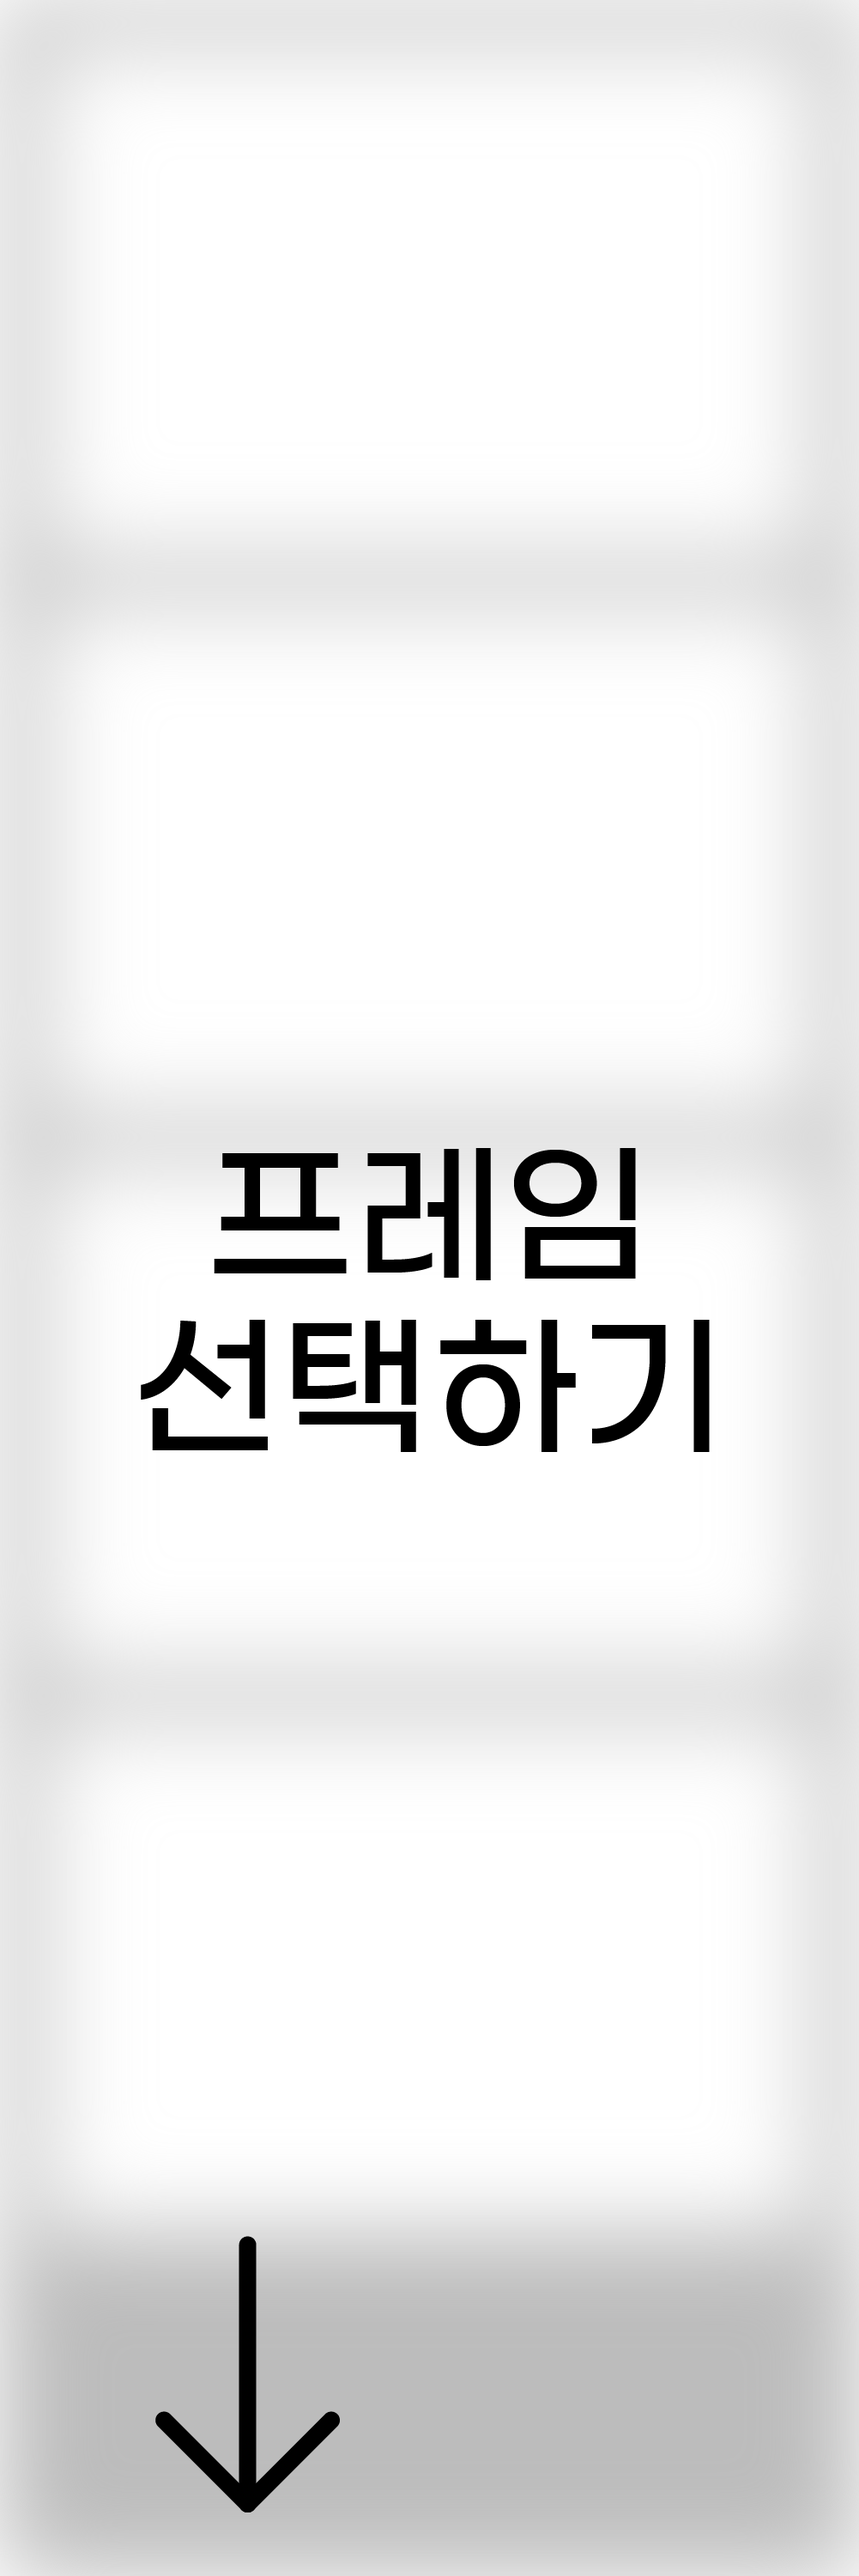
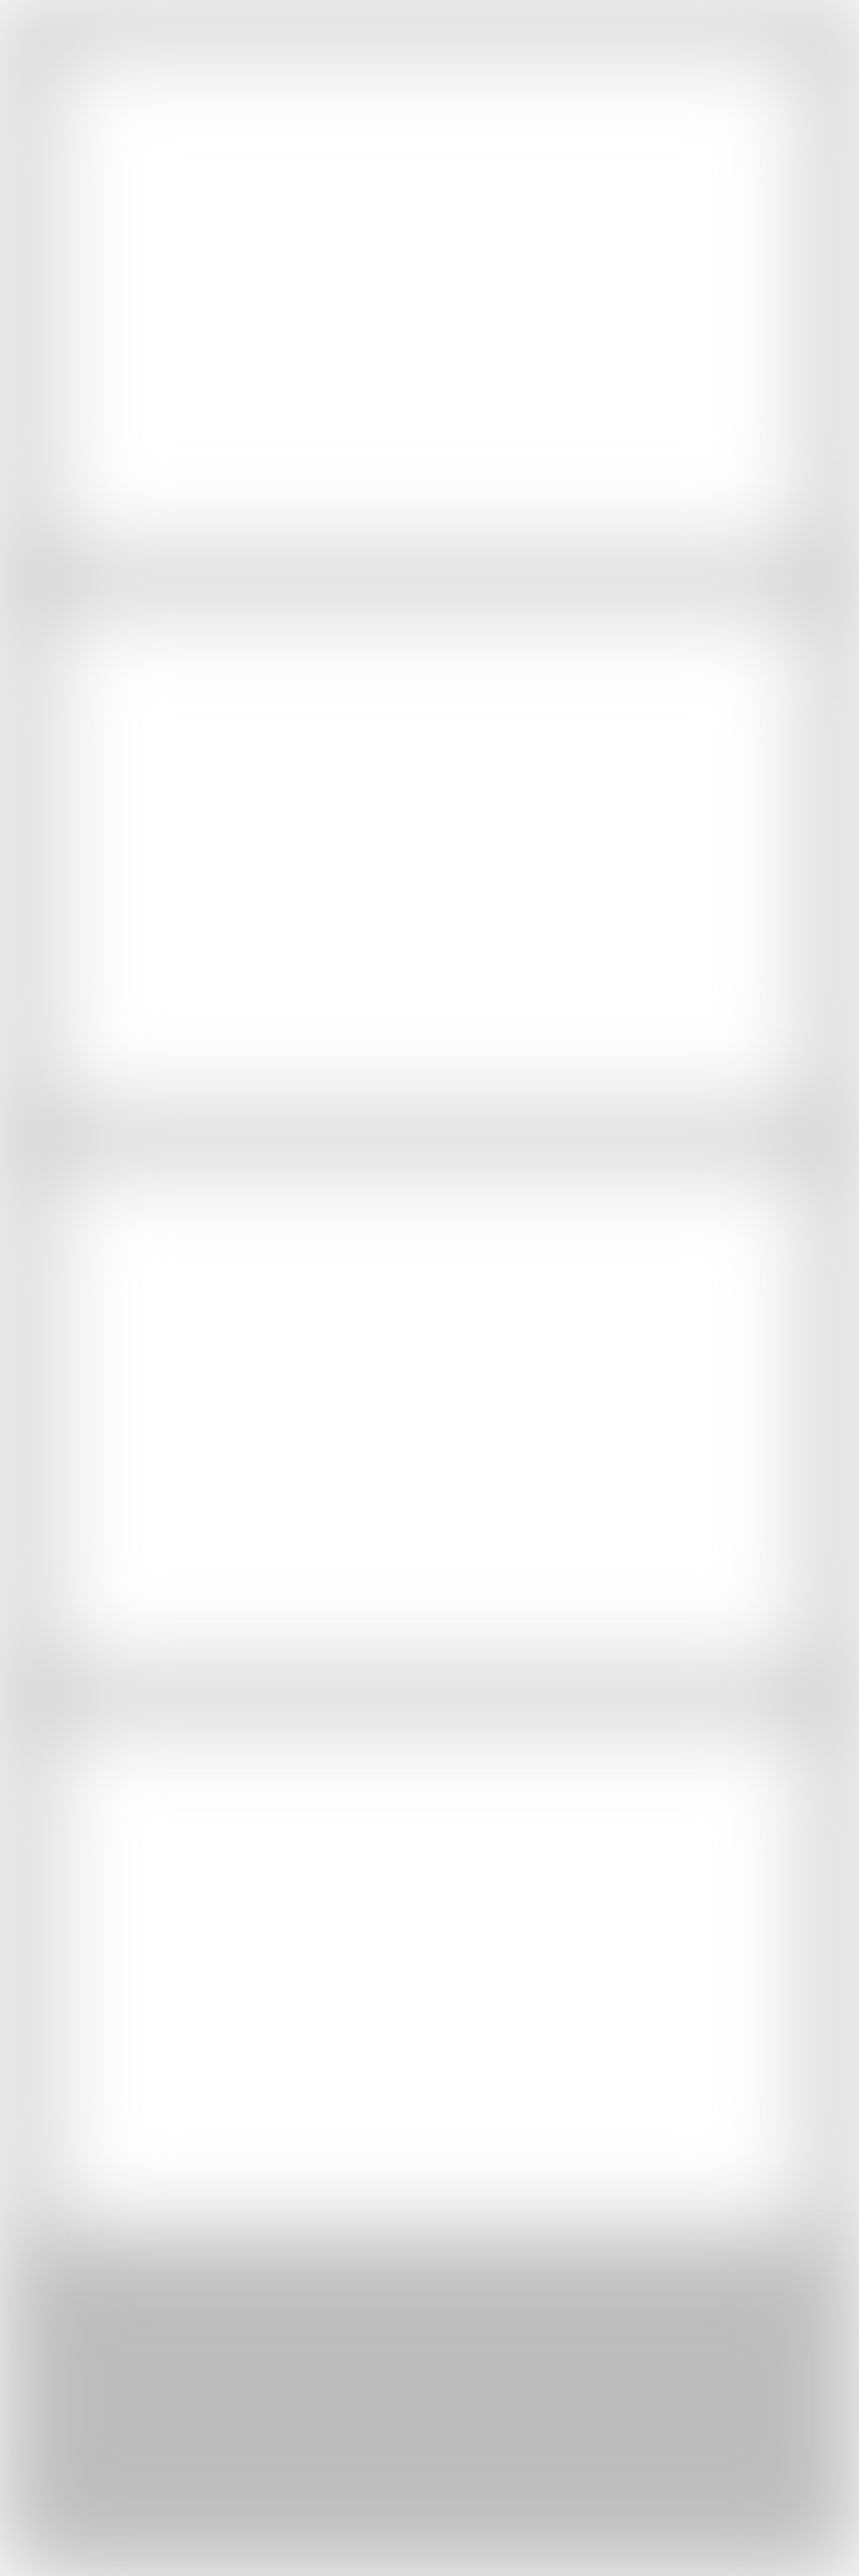
exif 수정은 어떻게 해야할까

Changed region(s): [[0.1548, 0.434, 0.7742, 0.589], [0.1858, 0.868, 0.4026, 0.992], [0.8052, 0.496, 0.8362, 0.589]]

diff --git a/todaysUnyang/templates/unyang4cut_download.html b/todaysUnyang/templates/unyang4cut_download.html
@@ -25,7 +25,7 @@
     <!-- 이미지 피커 -->
     <div class="p-1" id="imagePeeker" style="width: 50%; max-height: 100%">
         <div class="justify-contents" id="box">
-            <div class="card" style="margin-bottom: 10px;">
+            <div class="card border border-primary" style="margin-bottom: 10px;">
                 <div class="card-body">
                     <h5 class="card-title"><strong>1. 사진 불러오기</strong></h5>
                     <p class="card-text">등록한 이름과 같은 폴더를 선택해주세요.<br>사진이 많거나 처음 불러오는 경우, 시간이 조금 걸릴 수 있어요.</p>
@@ -42,7 +42,8 @@
 
         #frameimage,
         #overlayFrameImage,
-        #imageFrameContainer {
+        #imageFrameContainer,
+        #frameInfo {
             position: absolute;
         }
     </style>
@@ -51,33 +52,32 @@
             <div class="card" id="box">
                 <img id="backgroundFrameImage" class="card-img" src="/static/unyang4cut/FRAMES/default.png" alt="frame"
                     style="width: 100%; z-index: 1;" />
-                    
-                <div id="selectedImageViewer" class="card-img-overlay"
-                    style="z-index: 2; position: absolute; padding: 0px;">
-                    <div class="imageFrameContainer"
-                        style="aspect-ratio: 3/2; color: white; ">
-                        <img class="disabled img-fluid imageFrame" src="#" alt="1번" onclick="popImage(this.alt)" />
+                <div id="selectedImageViewer" class="card-img-overlay" style="z-index: 2; position: absolute; padding: 0px;">
+                    <div class="imageFrameContainer" style="aspect-ratio: 3/2; color: white; ">
+                        <img class="disabled img-fluid imageFrame" alt="1번" onclick="popImage(this.alt)" />
                         <p class="designator"></p>
                     </div>
-                    <div class="imageFrameContainer"
-                        style="width: 100%; aspect-ratio: 3/2; color: white;">
-                        <img class="disabled img-fluid imageFrame" src="#" alt="2번" onclick="popImage(this.alt)" />
+                    <div class="imageFrameContainer" style="width: 100%; aspect-ratio: 3/2; color: white;">
+                        <img class="disabled img-fluid imageFrame" alt="2번" onclick="popImage(this.alt)" />
                         <p class="designator"></p>
                     </div>
-                    <div class="imageFrameContainer"
-                        style="width: 100%; aspect-ratio: 3/2; color: white;">
-                        <img class="disabled img-fluid imageFrame" src="#" alt="3번" onclick="popImage(this.alt)" />
+                    <div class="imageFrameContainer" style="width: 100%; aspect-ratio: 3/2; color: white;">
+                        <img class="disabled img-fluid imageFrame" alt="3번" onclick="popImage(this.alt)" />
                         <p class="designator"></p>
                     </div>
-                    <div class="imageFrameContainer"
-                        style="width: 100%; aspect-ratio: 3/2; color: white;">
-                        <img class="disabled img-fluid imageFrame" src="#" alt="4번" onclick="popImage(this.alt)" />
+                    <div class="imageFrameContainer" style="width: 100%; aspect-ratio: 3/2; color: white;">
+                        <img class="disabled img-fluid imageFrame" alt="4번" onclick="popImage(this.alt)" />
                         <p class="designator"></p>
                     </div>
                 </div>
-
                 <img id="overlayFrameImage" src="/static/unyang4cut/FRAMES/clear.png" alt="frame"
-                    style="width: 100%; z-index: 3; pointer-events: none; opacity: 0" />
+                    style="width: 100%; z-index: 3; pointer-events: none;" />
+                <div id="frameInfo" class="card visually-hidden border border-primary" style="z-index: 4; bottom: 0%;">
+                    <div class="card-body">
+                        <h5 class="card-title"><strong>2. 프레임 선택하기</strong></h5>
+                        <p class="card-text">'프레임' 버튼을 눌러 프레임을 선택할 수 있어요.</p>
+                    </div>
+                </div>
             </div>
         </div>
         <!-- 버튼 -->

diff --git a/todaysUnyang/static/js/unyang4cut.js b/todaysUnyang/static/js/unyang4cut.js
@@ -5,8 +5,13 @@ let folderName = ''
 var imageFrameContainer = document.querySelectorAll('.imageFrameContainer')
 let isFrameSelected = false
 
-window.onload = sizeReload()
-window.onresize = sizeReload()
+window.onload = function() {
+    sizeReload();
+};
+
+window.onresize = function() {
+    sizeReload();
+};
 
 function sizeReload() {
     var leftDiv = document.getElementById('imagePeeker');
@@ -38,6 +43,7 @@ function sizeReload() {
     }
 };
 
+
 function startUp() {
     takenImageArray = document.querySelectorAll('.takenImages')
     if (takenImageArray) {
@@ -54,13 +60,21 @@ async function getFolderList() {
     replaceContent(folders, boxElement)
 }
 
-function setFolderName(currentFolderName) {
-    folderName = currentFolderName
+function showFrameInfo(status) {
+    if (!isFrameSelected) {
+        var frameInfoElement = document.getElementById('frameInfo')
+
+        if (status) {
+            frameInfoElement.classList.remove('visually-hidden')
+        } else {
+            frameInfoElement.classList.add('visually-hidden')
+        }
+    }
 }
 
 async function openFolder(reqFolderName) {
 
-    password = prompt('폴더 비밀번호를 입력해주세요.', undefined)
+    password = prompt("'" + reqFolderName + "' 폴더 비밀번호를 입력해주세요.", undefined)
     if (password == '' || password == undefined) {
         return
     }
@@ -92,6 +106,8 @@ async function openFolder(reqFolderName) {
             var imagePeekerElement = document.getElementById('imagePeeker')
             var controlBtnElement = document.getElementById('controlBtn')
             takenImagePeekerElement.style.height = (imagePeekerElement.clientHeight - controlBtnElement.clientHeight) + 'px';
+        
+            showFrameInfo(true)
         }
         else {
             // 비밀번호 틀림
@@ -162,6 +178,8 @@ function download() {
 
 function setFrame(selectedFrameSrc, selectedFrameName, overlayFrameSrc) {
     console.log('선택된 프레임: ' + selectedFrameName)
+
+    showFrameInfo(false)
 
     frame = selectedFrameName
 

diff --git a/todaysUnyang/unyang4cut.py b/todaysUnyang/unyang4cut.py
@@ -12,7 +12,7 @@ from todaysUnyang import BASE_DIR
 # wand 라이브러리는 쓰려면 뭘 또 깔아야함... 젠장
 # from wand.image import Image
 # 차라리 다른 라이브러리를 쓰는게 낫지 https://wikidocs.net/153080
-from PIL import Image
+from PIL import Image, ExifTags
 
 unyang4cut = Blueprint("photo", __name__, url_prefix="/photo")
 FOLDER_DIR = os.path.join(BASE_DIR, "static", "unyang4cut")
@@ -105,20 +105,18 @@ def isPasswordCorrect():
     try:
         queriedUserPassword = _DB_excute(
             "SELECT DISTINCT password FROM unyang4cutLogs WHERE name = ? ORDER BY time DESC LIMIT 1",
-            (postParmas["NAME"], ),
+            (postParmas["NAME"],),
         )
 
         if str(queriedUserPassword[0][0]) == str(postParmas["PASSWORD"]):
             return json.dumps({"IS_TRIUMPH": True, "IS_PASSWORD_CORRECT": True})
         else:
-            raise('비밀번호가 틀립니다.')
-        
+            raise ("비밀번호가 틀립니다.")
+
     except sqlite3.OperationalError as op:
         return json.dumps({"IS_TRIUMPH": False, "CONTENT": str(op)})
     except Exception as e:
         return json.dumps({"IS_TRIUMPH": True, "IS_PASSWORD_CORRECT": False})
-
-
 
 
 @unyang4cut.route("/folders", methods=["GET"])
@@ -209,13 +207,7 @@ def getAllImages():
         elements = elements + element
 
     # 현재 폴더 표시용 버튼
-    option = {
-        "type": "button",
-        "class": "btn btn-primary",
-        "id": "indicator",
-        "onload": "setFolderName(this.alt)",
-        "alt": folderName,
-    }
+    option = {"type": "button", "class": "btn btn-primary", "id": "indicator"}
     indicator = _elementWrapper("button", folderName, option)
 
     # 뒤로가기 버튼
@@ -224,14 +216,20 @@ def getAllImages():
         "class": "btn btn-secondary",
         # "hx-get": "/photo/folders",
         # "hx-target": "#box",
-        "onclick": "getFolderList()"
+        "onclick": "getFolderList()",
     }
     btn = _elementWrapper("button", "뒤로 가기", option)
 
     backButton = _elementWrapper(
-        "div", indicator + btn, { "class": "d-flex p-2 justify-content-around", 'id': 'controlBtn' }
+        "div",
+        indicator + btn,
+        {"class": "d-flex p-2 justify-content-around", "id": "controlBtn"},
     )
-    elements = backButton + _elementWrapper('div', elements, { 'class': 'overflow-auto scrollRemove', 'id': 'takenImagePeeker' })
+    elements = backButton + _elementWrapper(
+        "div",
+        elements,
+        {"class": "overflow-auto scrollRemove", "id": "takenImagePeeker"},
+    )
 
     # 4. 전송하기
     return elements
@@ -419,8 +417,19 @@ def _imageCollage(frameName: str, selectedImageInfo: dict):
 
         # 이미지를 복사하여 overlayImage에 변경 적용
         frameImage.alpha_composite(overlayImage, (0, 0))
-    except:
-        return "이미지를 만드는 중에 오류가 발생했어요."
+
+        # alpha. EXIF 추가하기
+        exif_data = frameImage.info.get("exif", {})
+
+        new_exif_data = {
+            ExifTags.TAGS[271]: "YourMake"
+            # 추가적인 EXIF 태그 및 값은 필요에 따라 추가할 수 있습니다.
+        }
+
+        exif_data.update(new_exif_data)
+
+    except Exception as e:
+        return f"이미지를 만드는 중에 오류가 발생했어요. {e}"
 
     # 3.5. 이미지 저장하기, 근데 중복이면 이름 바꾸기
     try:
@@ -428,7 +437,7 @@ def _imageCollage(frameName: str, selectedImageInfo: dict):
     except:
         pass
     imagesArray = os.listdir(FOLDER_DIR + "\\COLLAGED")
-    frameImage.save(f"{FOLDER_DIR}\\COLLAGED\\{len(imagesArray)}.png")
+    frameImage.save(f"{FOLDER_DIR}\\COLLAGED\\{len(imagesArray)}.png", exif=exif_data)
     return f"{len(imagesArray)}.png"
 
 
@@ -481,7 +490,7 @@ def _inline_elementWrapper(tag: str, option: dict):
 def _shootingLog(name: str, password: str, time: datetime, status: str):
     _DB_excute(
         "INSERT INTO unyang4cutLogs (name, password, time, status) VALUES (?, ?, ?, ?)",
-        [name, password, time, status]
+        [name, password, time, status],
     )
     return
 

diff --git a/todaysUnyang/image.py b/todaysUnyang/image.py
@@ -1,0 +1,33 @@
+from PIL import Image, ExifTags
+
+def modify_exif(image_path, new_exif_data):
+    # 이미지 열기
+    image = Image.open(image_path)
+
+    # 이미지의 현재 EXIF 정보 가져오기
+    exif_data = image.info.get('exif', b'')
+
+    # 새로운 EXIF 데이터 추가 또는 기존 데이터 수정
+    exif_data += new_exif_data
+
+    # 수정된 EXIF 데이터를 이미지에 적용
+    image.save(image_path, exif=exif_data)
+
+# 이미지 파일 경로
+image_path = "E:\\OneDrive\\Algorithm\\Front end\\todaysUnyang\\todaysUnyang\\static\\image.jpg"
+
+# # 수정할 EXIF 데이터 (예: 제조사, 모델)
+# new_exif_data = {
+#     ExifTags.TAGS[271]: 'YourMake'
+#     # 추가적인 EXIF 태그 및 값은 필요에 따라 추가할 수 있습니다.
+# }
+
+new_exif_data = b'Make\x00YourMake\x00Model\x00YourModel\x00'
+
+# for idx in ExifTags.TAGS.keys():
+#     if ExifTags.TAGS[idx] == 'Make':
+#         print(idx)
+
+# EXIF 수정 함수 호출
+modify_exif(image_path, new_exif_data)
+
